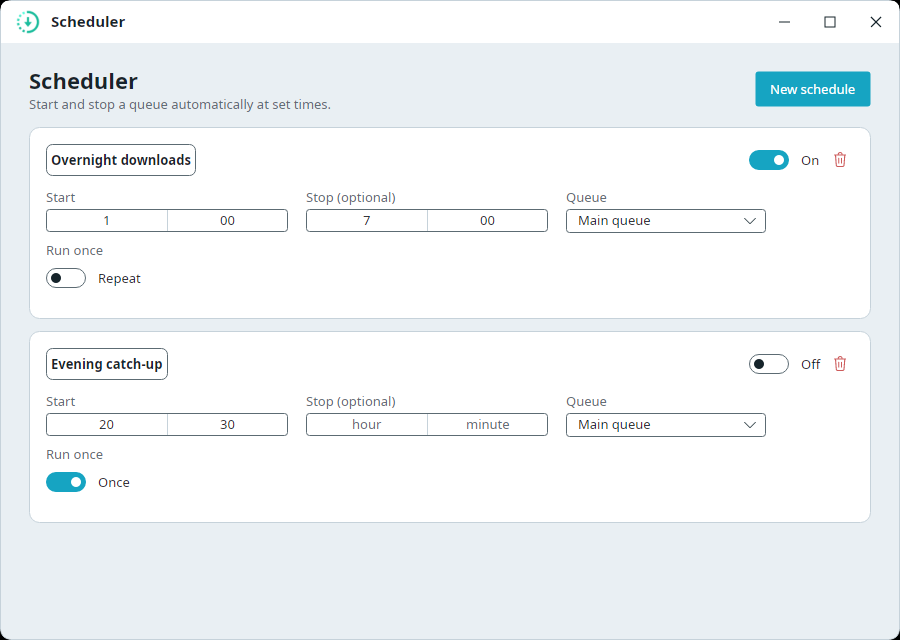
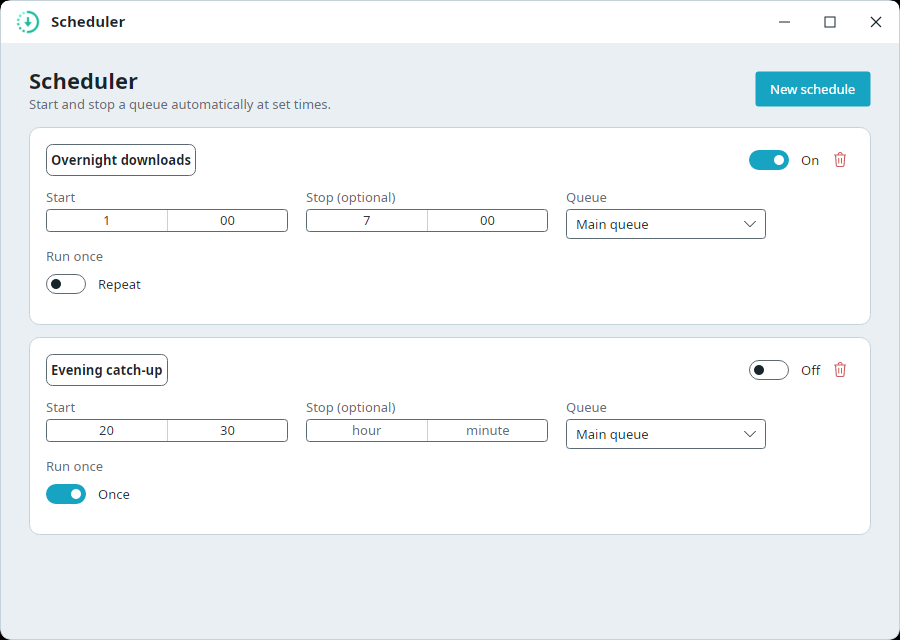
feat(ux): live queue start/stop menus, combobox padding, full-name tooltip
- Queue menus refresh on add/remove: DownloadManager raises QueuesChanged
  (interface + impl) from AddQueue/RemoveQueue; DownloadsViewModel re-raises
  Start/StopQueueTargets + ShowQueue so a new queue appears without restart.
- ComboBox padding: global ComboBox/ComboBoxItem styles inset text so it no
  longer sits flush on the control edge (Settings, Add dialog, Scheduler).
- Full file name on hover: Name cell tooltip binds to a new NameTooltip
  (full DisplayName + error line when failed) instead of just ErrorMessage;
  NameTooltip re-raised at every DisplayName site + the ErrorMessage setter.
- +1 test (QueuesChanged fires on add/remove) → 140 green; screenshots refreshed.

Claude-Session: https://claude.ai/code/session_01MDReJvpoTvwzYi1LSTJyvR

diff --git a/src/Downloader.Desktop/ViewModels/DownloadItemViewModel.cs b/src/Downloader.Desktop/ViewModels/DownloadItemViewModel.cs
@@ -113,6 +113,7 @@ public class DownloadItemViewModel : ViewModelBase
     {
         this.RaisePropertyChanged(nameof(StatusText));
         this.RaisePropertyChanged(nameof(DisplayName));
+        this.RaisePropertyChanged(nameof(NameTooltip));
         this.RaisePropertyChanged(nameof(Group));
     }
 
@@ -138,6 +139,7 @@ public class DownloadItemViewModel : ViewModelBase
                 _item.FileName = value;
                 this.RaisePropertyChanged();
                 this.RaisePropertyChanged(nameof(DisplayName));
+            this.RaisePropertyChanged(nameof(NameTooltip));
                 this.RaisePropertyChanged(nameof(IsNamePending));
                 this.RaisePropertyChanged(nameof(FileKind));
             }
@@ -193,6 +195,7 @@ public class DownloadItemViewModel : ViewModelBase
                 _item.PreviewName = value; // cache so the name survives a restart
                 this.RaisePropertyChanged();
                 this.RaisePropertyChanged(nameof(DisplayName));
+            this.RaisePropertyChanged(nameof(NameTooltip));
                 this.RaisePropertyChanged(nameof(IsNamePending));
                 this.RaisePropertyChanged(nameof(FileKind));
             }
@@ -205,6 +208,13 @@ public class DownloadItemViewModel : ViewModelBase
         : !string.IsNullOrWhiteSpace(_previewName) ? _previewName
         : IsNamePending ? L("Name_Fetching")
         : L("Name_Unnamed");
+
+    /// <summary>Tooltip for the Name cell: the full file name (so a column-trimmed long name is readable on
+    /// hover), plus the failure reason on a second line when the download has failed.</summary>
+    public string NameTooltip =>
+        HasError && !string.IsNullOrWhiteSpace(ErrorMessage)
+            ? $"{DisplayName}\n{ErrorMessage}"
+            : DisplayName;
 
     /// <summary>True while we are still waiting for any name (engine or preview).</summary>
     public bool IsNamePending =>
@@ -220,6 +230,7 @@ public class DownloadItemViewModel : ViewModelBase
             _item.LastError = value;
             this.RaisePropertyChanged();
             this.RaisePropertyChanged(nameof(HasError));
+            this.RaisePropertyChanged(nameof(NameTooltip));
         }
     }
 
@@ -312,6 +323,7 @@ public class DownloadItemViewModel : ViewModelBase
             this.RaisePropertyChanged(nameof(IsCompleted));
             this.RaisePropertyChanged(nameof(HasError));
             this.RaisePropertyChanged(nameof(DisplayName));
+            this.RaisePropertyChanged(nameof(NameTooltip));
             this.RaisePropertyChanged(nameof(IsNamePending));
             this.RaisePropertyChanged(nameof(ShowStatusBadge));
             this.RaisePropertyChanged(nameof(TimeLeftText));

diff --git a/src/Downloader.Desktop/ViewModels/DownloadsViewModel.cs b/src/Downloader.Desktop/ViewModels/DownloadsViewModel.cs
@@ -56,7 +56,18 @@ public class DownloadsViewModel : ViewModelBase
         foreach (var item in manager.Items)
             item.PropertyChanged += OnItemPropertyChanged;
         manager.Items.CollectionChanged += OnItemsCollectionChanged;
+
+        // The "Start/Stop queue" toolbar menus are bound to computed Targets; refresh them when a queue is
+        // added/removed so a new queue shows up without restarting the app.
+        manager.QueuesChanged += OnQueuesChanged;
     }
+
+    private void OnQueuesChanged() => Avalonia.Threading.Dispatcher.UIThread.Post(() =>
+    {
+        this.RaisePropertyChanged(nameof(StartQueueTargets));
+        this.RaisePropertyChanged(nameof(StopQueueTargets));
+        this.RaisePropertyChanged(nameof(ShowQueue));
+    });
 
     private void OnItemsCollectionChanged(object sender, NotifyCollectionChangedEventArgs e)
     {

diff --git a/src/Downloader.Desktop/Services/DownloadManager.cs b/src/Downloader.Desktop/Services/DownloadManager.cs
@@ -25,6 +25,7 @@ public class DownloadManager : IDownloadManager
     public event Action StatsChanged;
     public event Action ListChanged;
     public event Action AllDownloadsCompleted;
+    public event Action QueuesChanged;
 
     public IReadOnlyList<DownloadQueue> Queues => _config?.Queues ?? new List<DownloadQueue>();
 
@@ -641,6 +642,7 @@ public class DownloadManager : IDownloadManager
         };
         _config?.Queues?.Add(queue);
         NotifyList();
+        QueuesChanged?.Invoke();
         return queue;
     }
 
@@ -664,6 +666,7 @@ public class DownloadManager : IDownloadManager
 
         _config.Queues.Remove(queue);
         NotifyList();
+        QueuesChanged?.Invoke();
     }
 
     public void MoveToQueue(DownloadItemViewModel vm, string queueId)

diff --git a/src/Downloader.Desktop.Tests/AppTests.cs b/src/Downloader.Desktop.Tests/AppTests.cs
@@ -101,6 +101,22 @@ public class AppTests
     }
 
     [AvaloniaFact]
+    public void QueuesChanged_fires_on_add_and_remove()
+    {
+        var manager = new DownloadManager();
+        manager.Initialize(Config.New());
+
+        int fired = 0;
+        manager.QueuesChanged += () => fired++;
+
+        var queue = manager.AddQueue("Second");
+        Assert.Equal(1, fired); // adding a queue notifies so the start/stop menus refresh
+
+        manager.RemoveQueue(queue);
+        Assert.Equal(2, fired); // removing a queue notifies too
+    }
+
+    [AvaloniaFact]
     public void Adding_a_queue_shows_the_queue_column()
     {
         var manager = new DownloadManager();

diff --git a/src/Downloader.Desktop/Services/IDownloadManager.cs b/src/Downloader.Desktop/Services/IDownloadManager.cs
@@ -25,6 +25,10 @@ public interface IDownloadManager
     /// queued — used for the "all downloads complete" notification and shutdown-on-completion.</summary>
     event Action AllDownloadsCompleted;
 
+    /// <summary>Raised when the queue set changes (a queue is added or removed) so per-queue menus refresh
+    /// without an app restart.</summary>
+    event Action QueuesChanged;
+
     /// <summary>The configured queues (read-only view for building per-queue menus).</summary>
     System.Collections.Generic.IReadOnlyList<DownloadQueue> Queues { get; }
 

diff --git a/.claude/skills/downloader-desktop/SKILL.md b/.claude/skills/downloader-desktop/SKILL.md
@@ -230,3 +230,8 @@ See `CLAUDE.md` at the repo root for product vision, locked decisions, and the f
 - **Add-dialog single-link name/size pre-resolve** (`AddDownloadItemViewModel`): on `Urls` change, `TriggerResolve()` — debounce `Task.Delay(600, cts.Token)` then `UrlResolver.ResolveFileInfoAsync(url, Settings.ToConfiguration())` → `RemoteFileInfo` (**`.FileName` string + `.FileSize` long**, FileSize≤0 = unknown). Per-keystroke `CancellationTokenSource`; only apply if the input is still that exact single link and `_userTypedName` is false (the `Filename` setter tracks user typing so resolve never clobbers it; resolve writes `_fileName` via `RaiseAndSetIfChanged(ref _fileName, …, nameof(Filename))` to bypass the setter). `IsFilenameEnabled = !IsMultiple` disables (not hides) the name box for multi-link adds; size hint row is `IsVisible=IsSingleLink` + `Resolving`/`HasSizeText`. Unknown size → **engine downloads single-part natively** (no app code needed — RangeDownload needs a known size + range support).
 - **Expired/anti-bot link detection** (`DownloadManager`): pure `LooksExpiredOrInvalid(string head, long bytes)` — flags a "completed" download that's **small (≤512KB) AND looks like markup** (head trimmed/lowercased starts-with `<!doctype html`/`<html`/`<?xml` or contains `<head`/`<body`/`<title`). Wrapper `IsExpiredOrInvalidLink` sniffs the first 1KB of the saved file (path from `(e.UserState as DownloadPackage)?.FileName`); checked in the success `else` branch of `DownloadFileCompleted`, before marking Completed → sets Failed + `Localizer.Instance["Error_LinkExpired"]`. Sits alongside `LooksCorruptedAfterResume`/`LooksAlreadyDownloaded` (same pure-helper + completion-branch pattern). Genuine small non-markup files are not flagged.
 - **Sample plugin "not a Downloader plugin"** root cause was **the sample wasn't in `Downloader.Desktop.sln`** → `dotnet build` never produced a fresh DLL, so users installed a stale/absent one. Fix = `dotnet sln add ../samples/Downloader.Desktop.SamplePlugin/...csproj`. The loader + source were already current (the green `Loads_a_real_external_plugin_DLL_from_disk` test, which builds+stages the sample via the test csproj `StageSamplePlugin` target, proves it). If "install does nothing/errors" recurs, suspect a stale DLL on disk, not the SDK.
+
+## UX batch 6 patterns (queue menu refresh, combo padding, name tooltip)
+- **Computed menu `ItemsSource` won't refresh on its own.** `DownloadsViewModel.StartQueueTargets`/`StopQueueTargets` are `=>` properties bound to `MenuFlyout.ItemsSource`, and `DownloadManager.Queues` is a plain `List` (no `INotifyCollectionChanged`). Adding/removing a queue mutated the list but the menus stayed stale until app restart. Fix: a plain `event Action QueuesChanged` on the manager (interface + impl), raised at the end of `AddQueue`/`RemoveQueue`; `DownloadsViewModel` subscribes and re-raises `StartQueueTargets`/`StopQueueTargets`/`ShowQueue` (via `Dispatcher.UIThread.Post`). Same plain-event style as `StatsChanged`/`ListChanged`. Any future computed-collection property bound to a menu needs an explicit notify trigger.
+- **Global ComboBox padding**: the app's `Style Selector="ComboBox"` only set `Cursor=Hand`, so selected text sat flush on the edge. Add `Padding="10 6"` to it AND a matching `Style Selector="ComboBoxItem"` (so dropdown rows are inset too). One global style in `App.axaml` covers every combo (Settings language picker, Add dialog, Scheduler).
+- **Full-name-on-hover for trimmed grid cells**: the Name cell keeps `TextTrimming="CharacterEllipsis"`; bind `ToolTip.Tip` to a VM `NameTooltip` (= `DisplayName`, plus `"\n{ErrorMessage}"` when `HasError`) rather than to `ErrorMessage` alone. **Gotcha:** a tooltip binding only updates when the source raises `PropertyChanged`, so `NameTooltip` must be re-raised at *every* site that raises `DisplayName` (4 places in `DownloadItemViewModel`, incl. `OnLanguageChanged`) **and** in the `ErrorMessage` setter — else the tooltip stays stuck on the initial "Fetching…" value after the name resolves.

diff --git a/openspec/changes/ux-queue-combo-name-fixes/design.md b/openspec/changes/ux-queue-combo-name-fixes/design.md
@@ -1,0 +1,38 @@
+# Design: ux-queue-combo-name-fixes
+
+## 1. Live queue menus
+
+**Problem.** `DownloadManager.Queues` is `IReadOnlyList<DownloadQueue>` backed by `_config.Queues` (a plain
+`List`). `DownloadsViewModel.StartQueueTargets`/`StopQueueTargets` are computed `=>` properties bound via
+`MenuFlyout.ItemsSource`. `AddQueue`/`RemoveQueue` mutate the list but raise no notification, so the bound
+menus never re-materialize until the VM is recreated (app restart).
+
+**Decision.** Add a plain `event Action QueuesChanged` to `DownloadManager`, raised at the end of `AddQueue`
+and `RemoveQueue`. `DownloadsViewModel` subscribes in its ctor and, on the UI thread, re-raises
+`StartQueueTargets`, `StopQueueTargets`, and `ShowQueue`. This is the minimal fix consistent with the existing
+event style (the manager already exposes `StatsChanged`/`AllDownloadsCompleted` as plain events).
+
+- Use a plain `event Action`, not `ObservableCollection`, to avoid changing the `Queues` return type and the
+  ripple through callers.
+- Marshal the re-raise through `Dispatcher.UIThread` defensively (queue edits originate on the UI thread today,
+  but the re-raise touching bound properties should be UI-safe regardless).
+
+## 2. ComboBox padding
+
+**Decision.** Extend the existing global `ComboBox` style in `App.axaml` with `Padding="10 6"` (matches the
+TextBox/button insets used elsewhere). Add a `ComboBoxItem` padding setter so dropdown rows are inset too.
+No per-view overrides — one global style covers Settings, the Add dialog, and any future combo.
+
+## 3. Full name on hover
+
+**Decision.** In `DownloadsView.axaml`, change the Name cell `TextBlock.ToolTip.Tip` from `{Binding ErrorMessage}`
+to the full name. Add a read-only VM helper `NameTooltip` on `DownloadItemViewModel` that returns `DisplayName`,
+and appends `"\n<error>"` when `ErrorMessage` is non-empty — so the tooltip is useful for both long names and
+failures. Bind the cell tooltip to `NameTooltip`. The column keeps `TextTrimming="CharacterEllipsis"`.
+
+## Risks / trade-offs
+
+- Tooltip always present (even for short names) — harmless; Avalonia only shows it on hover and the text equals
+  the visible name when not trimmed.
+- `QueuesChanged` is fire-and-forget; no unsubscribe needed for the app-lifetime `DownloadsViewModel`, but we
+  unsubscribe in line with existing patterns if the VM exposes teardown (it does not today — single root VM).

diff --git a/openspec/changes/ux-queue-combo-name-fixes/proposal.md b/openspec/changes/ux-queue-combo-name-fixes/proposal.md
@@ -1,0 +1,34 @@
+# Proposal: ux-queue-combo-name-fixes
+
+## Why
+
+Three concrete UX defects reported by the author that make the main window feel broken:
+
+1. **Queue start/stop menus go stale.** After adding a new queue, the "Start queue ▾" / "Stop queue ▾"
+   dropdowns in the downloads toolbar still list only the old queues — the new one never appears until the
+   app is closed and reopened. The menus are bound to computed properties that never re-evaluate when the
+   queue set changes.
+2. **ComboBox text touches the edge.** Every ComboBox renders its selected text flush against the control's
+   left/top border with no breathing room, which looks unfinished. The app's global ComboBox style sets only
+   a hand cursor and no padding.
+3. **Long file names are unreadable.** When a download's name is wider than the Name column it trims with an
+   ellipsis and there is no way to see the rest — the cell's tooltip is currently wired to the (usually empty)
+   error message, not the name. The user can only ever read the beginning of a long name.
+
+## What Changes
+
+1. **Live queue menus** — the download manager raises a `QueuesChanged` event when a queue is added or removed;
+   `DownloadsViewModel` subscribes and re-raises `StartQueueTargets`/`StopQueueTargets` (and `ShowQueue`) so the
+   toolbar dropdowns reflect the current queues immediately, no restart.
+2. **ComboBox padding** — the global `ComboBox` style gains consistent inner padding so the selected text and
+   the dropdown items sit inside the control, not on its edge. Applies app-wide (Settings, Add dialog, etc.).
+3. **Full name on hover** — the downloads grid Name cell shows the complete file name (plus the error reason
+   when failed) in a tooltip on hover, so a trimmed long name is fully readable.
+
+## Impact
+
+- Affected specs: `queues` (new), `downloads-list` (new), `ui-theme` (new).
+- Affected code: `Services/DownloadManager.cs` (new event), `ViewModels/DownloadsViewModel.cs` (subscribe +
+  re-raise), `App.axaml` (ComboBox padding), `Views/DownloadsView.axaml` (Name cell tooltip).
+- No data-model or persistence changes; no engine changes. Small, localized, low-risk.
+- Tests: a unit test asserting the manager fires `QueuesChanged` on add/remove.

diff --git a/openspec/changes/ux-queue-combo-name-fixes/tasks.md b/openspec/changes/ux-queue-combo-name-fixes/tasks.md
@@ -1,0 +1,18 @@
+# Tasks: ux-queue-combo-name-fixes
+
+## 1. Live queue menus
+- [x] 1.1 Add `event Action QueuesChanged` to `DownloadManager`; raise it at the end of `AddQueue` and `RemoveQueue`.
+- [x] 1.2 In `DownloadsViewModel` ctor, subscribe to `QueuesChanged` and re-raise `StartQueueTargets`, `StopQueueTargets`, `ShowQueue` on the UI thread.
+- [x] 1.3 Add a unit test asserting `QueuesChanged` fires on `AddQueue` and `RemoveQueue`.
+
+## 2. ComboBox padding
+- [x] 2.1 In `App.axaml`, add `Padding="10 6"` to the global `ComboBox` style and an inset on `ComboBoxItem`.
+
+## 3. Full name on hover
+- [x] 3.1 Add `NameTooltip` to `DownloadItemViewModel` (full `DisplayName`, plus error line when failed).
+- [x] 3.2 In `DownloadsView.axaml`, bind the Name cell `ToolTip.Tip` to `NameTooltip`.
+
+## 4. Verify
+- [x] 4.1 `dotnet build` clean; `dotnet test` green.
+- [x] 4.2 Regenerate `docs/screenshots/` (UI changed) and eyeball them.
+- [x] 4.3 Append any non-obvious pattern to the `downloader-desktop` skill; commit + push to `develop`.

diff --git a/openspec/changes/ux-queue-combo-name-fixes/specs/queues/spec.md b/openspec/changes/ux-queue-combo-name-fixes/specs/queues/spec.md
@@ -1,0 +1,20 @@
+# queues Specification (delta)
+
+## ADDED Requirements
+
+### Requirement: Queue action menus reflect the live queue set
+
+The "Start queue" and "Stop queue" toolbar dropdowns in the main downloads view SHALL list every queue that
+currently exists, updating immediately when a queue is added or removed — without requiring an application
+restart.
+
+#### Scenario: New queue appears in the menus immediately
+
+- **WHEN** the user adds a new queue from the Queues page
+- **THEN** the new queue appears as an entry in both the "Start queue" and "Stop queue" toolbar dropdowns
+  without closing and reopening the app
+
+#### Scenario: Removed queue disappears from the menus immediately
+
+- **WHEN** the user removes a queue
+- **THEN** that queue is no longer listed in the "Start queue" / "Stop queue" toolbar dropdowns

diff --git a/openspec/changes/ux-queue-combo-name-fixes/specs/downloads-list/spec.md b/openspec/changes/ux-queue-combo-name-fixes/specs/downloads-list/spec.md
@@ -1,0 +1,18 @@
+# downloads-list Specification (delta)
+
+## ADDED Requirements
+
+### Requirement: Full file name is readable on hover
+
+The downloads grid SHALL let the user read a download's complete file name by hovering the pointer over its
+Name cell, even when the name is too long to fit the column and is trimmed with an ellipsis.
+
+#### Scenario: Hover reveals the full name
+
+- **WHEN** the pointer hovers over a Name cell whose text is trimmed
+- **THEN** a tooltip shows the complete file name
+
+#### Scenario: Failed download also shows its error
+
+- **WHEN** the pointer hovers over the Name cell of a failed download
+- **THEN** the tooltip shows the full name and the failure reason

diff --git a/openspec/changes/ux-queue-combo-name-fixes/specs/ui-theme/spec.md b/openspec/changes/ux-queue-combo-name-fixes/specs/ui-theme/spec.md
@@ -1,0 +1,13 @@
+# ui-theme Specification (delta)
+
+## ADDED Requirements
+
+### Requirement: ComboBoxes have consistent inner padding
+
+Every ComboBox in the application SHALL render its selected text and dropdown items with consistent inner
+padding so the text sits inside the control rather than flush against its edge.
+
+#### Scenario: Selected text is inset
+
+- **WHEN** a ComboBox displays its selected value
+- **THEN** the text has horizontal and vertical padding inside the control border
